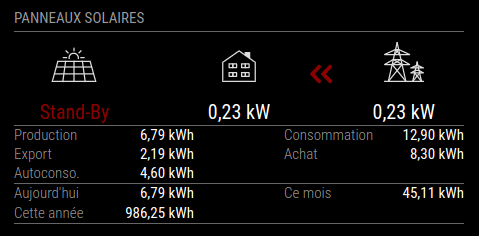
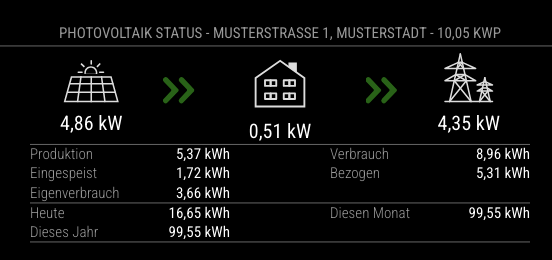
added sample images based on mock data

Changed region(s): [[0.0, 0.0297, 1.0, 0.9492], [0.643, 0.2669, 0.7307, 0.4153], [0.2923, 0.2966, 0.3507, 0.4153]]

diff --git a/README.md b/README.md
@@ -62,3 +62,5 @@ var config = {
 ![alt text](/docs/SolarEdgePvBattery.png "Example")
 
 ![alt text](/docs/SolarEdgePvCompactMode.png "Example")
+
+![alt text](/docs/SolarEdgePvBatteryCompactMode.png "Example")
